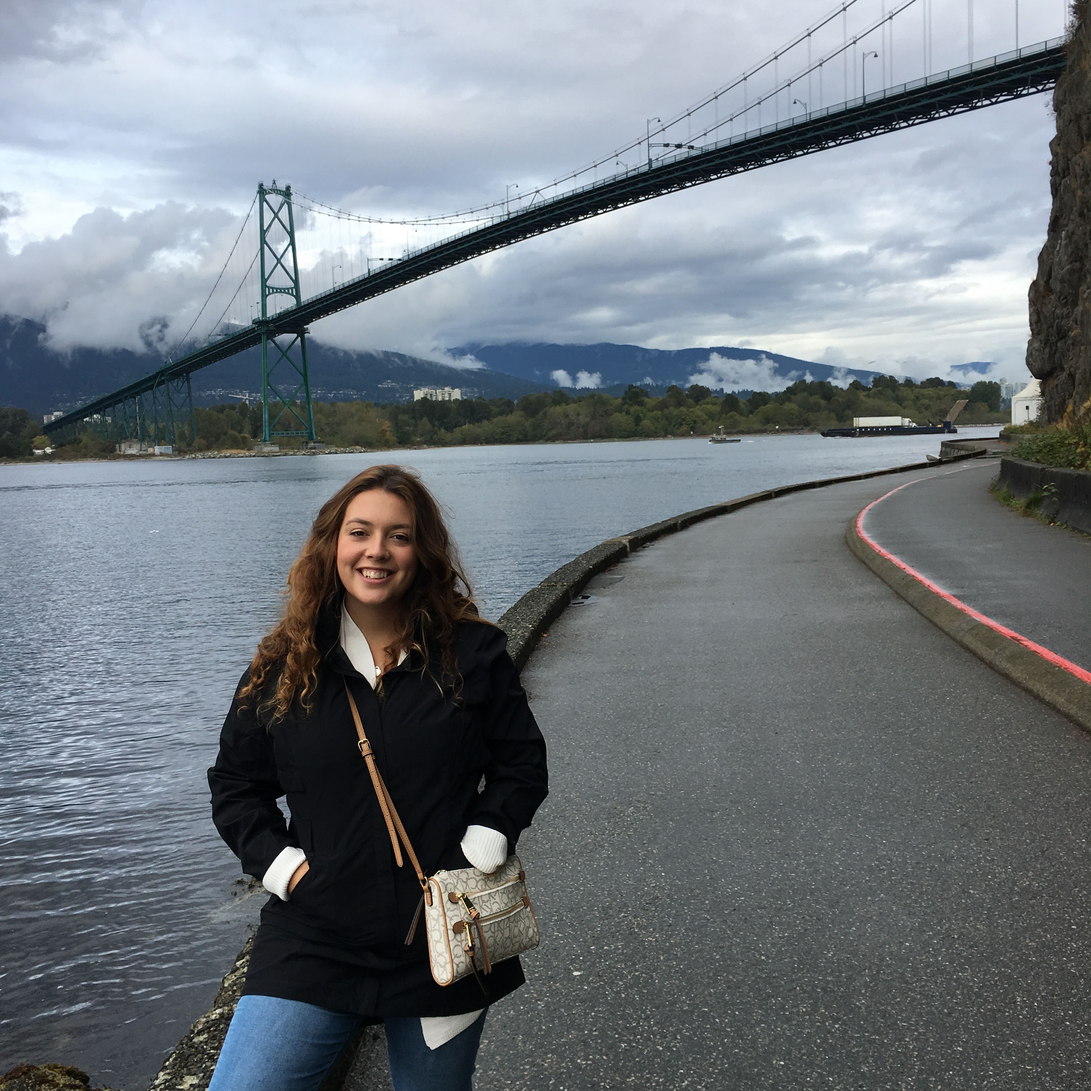
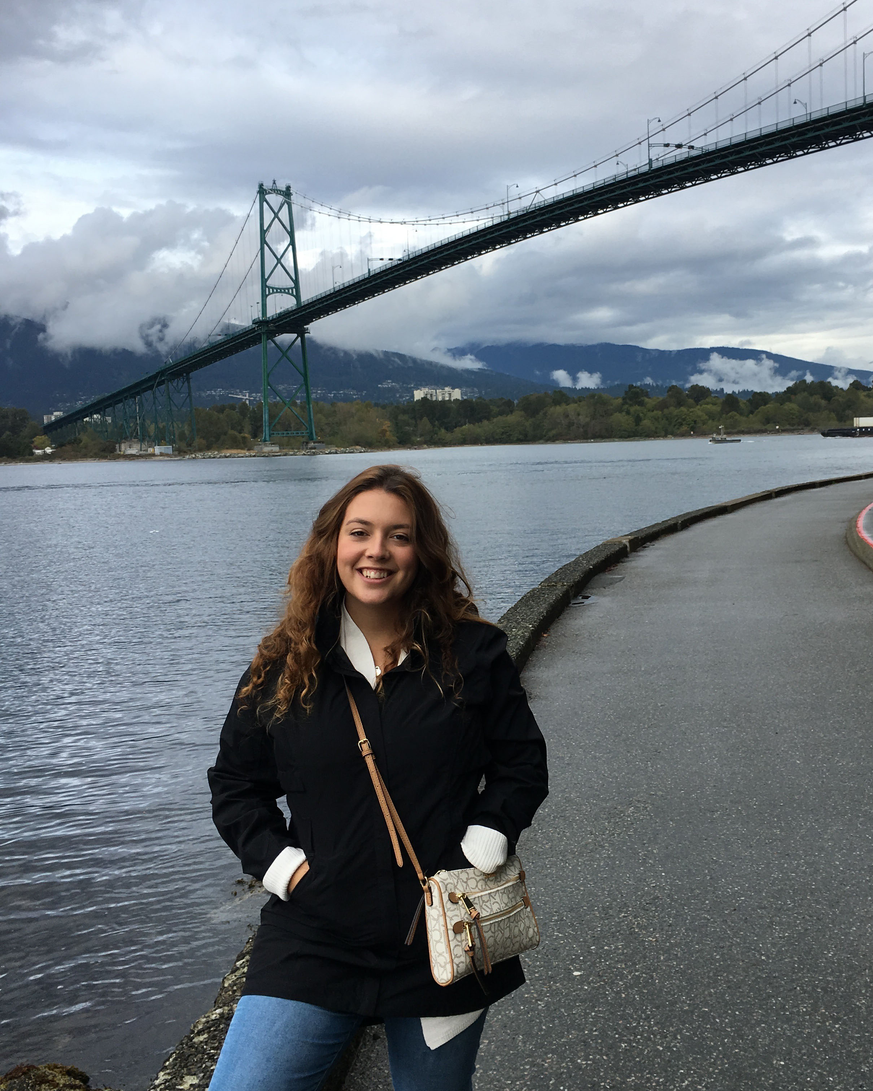
fixed images

diff --git a/_site/index.html b/_site/index.html
@@ -14,7 +14,7 @@
 </head>
 <body>
 
-  <header class="push-1-4 picture " role="navigation" id="nav">
+  <header class="push-1-4 picture" role="navigation" id="nav">
     <div class="text-center pad-t-1-2">
   <a href="/">
     <h1 class="push-0 tena">Stephanie Piccoli</h1>
@@ -87,17 +87,17 @@
     </div>
   </main>
 
-    <hr class="line1"></hr>
+    <hr class="line1 push-1-2"></hr>
 
       <section id="about" class="about">
 
-  <h2 class="push-0 pad-t-1-2 text-center">Who am I?</h2>
+  <h2 class="push-0 text-center">Who am I?</h2>
 
   <div class="grid">
   <div class="unit xs-1 s-1 m-1 l-1-2 xl-1-2">
   <div class="gutter-1-4">
-    <figure class="embed embed-1by1 texthover push-0">
-        <img class="embed-item island-1-2 img-flex me" src="/images/me.jpg" alt="">
+    <figure class="texthover push-0">
+        <img class="img-flex island-1-2 me" src="/images/me.jpg" alt="">
     </figure>
   </div>
   </div>
@@ -115,58 +115,49 @@
 </section>
 
 
+    <hr class="line1"></hr>
+
   </main>
 
-  <footer class="pad-t-2 picture-footer footer" id="footer" role="footer">
+  <footer class="veerpush-0 pad-t-2 picture-footer footer" id="footer" role="footer">
 
   <section class="push-0">
-    <h2 class="text-center subtitle"><span>Get in Touch</span></h2>
+    <h2 class="text-center subtitle-get"><span>Get in Touch</span></h2>
       <div class="grid grid-middle island-1-2">
         <div class="unit xs-1 s-1 m-1 l-1-4 xl-1-4">
           <ul class="list-group-inline text-center push-0 pad-t-1-4">
 
             <li class="island-1-8">
-              <a class="social-media btn text-center gutter">
+              <a class="btn btn-social text-center gutter">
                 <i class="icon i-64 push-1-8">
-                  <img itemprop="image" src="/images/placeholder-logo.png" alt="LinkedIn logo">
+                  <img src="/images/placeholder-logo.png" alt="LinkedIn logo">
                 </i>
-                <span class="social icon-label milli block">LinkedIn</span>
+                <span class="milli block">LinkedIn</span>
               </a>
             </li>
 
             <li class="island-1-8">
-              <a class="social-media btn text-center gutter">
+              <a class="btn btn-social icon-link text-center gutter">
                 <i class="icon i-64 push-1-8">
-                  <img itemprop="image" src="/images/placeholder-logo.png" alt="Instagram Logo">
+                  <img src="/images/placeholder-logo.png" alt="Behance Logo">
                 </i>
-                <span class="social icon-label milli block">Instagram</span>
+                <span class="milli block">Behance</span>
               </a>
             </li>
 
             <li class="island-1-8">
-              <a class="social-media btn icon-link text-center gutter">
-                <i class="icon i-64 push-1-8">
-                  <img itemprop="image" src="/images/placeholder-logo.png" alt="Behance Logo">
-                </i>
-                <span class="social icon-label milli block">Behance</span>
-              </a>
-            </li>
-
-            <li class="island-1-8">
-              <a class="social-media btn icon-link text-center gutter">
+              <a class="btn btn-social icon-link text-center gutter">
                 <i class="icon i-64 push-1-8">
                   <img itemprop="image" src="/images/placeholder-logo.png" alt="Email Link">
                 </i>
-                <span itemprop="email" class="social icon-label milli block">Email</span>
+                <span class="milli block">Email</span>
               </a>
             </li>
           </ul>
         </div>
       </div>
 
-      <ul class="footerlist-group-inline text-center">
-        <p class="push-0 micro text-center">Stephanie Piccoli Designs © <i>Portfolio</i></p>
-      </ul>
+        <p class="footer-p pad-t-2 push-0 micro text-center">Stephanie Piccoli Designs © <i>Portfolio</i></p>
   </section>
 
   </footer>

diff --git a/_layouts/default.html b/_layouts/default.html
@@ -14,7 +14,7 @@
 </head>
 <body>
 
-  <header class="push-1-4 picture {{page.headerClass}}" role="navigation" id="nav">
+  <header class="push-1-4 picture" role="navigation" id="nav">
     {% include nav.html %}
   </header>
 
@@ -22,56 +22,45 @@
     {{content}}
   </main>
 
-  <footer class="pad-t-2 picture-footer footer" id="footer" role="footer">
+  <footer class="veerpush-0 pad-t-2 picture-footer footer" id="footer" role="footer">
 
   <section class="push-0">
-    <h2 class="text-center subtitle"><span>Get in Touch</span></h2>
+    <h2 class="text-center subtitle-get"><span>Get in Touch</span></h2>
       <div class="grid grid-middle island-1-2">
         <div class="unit xs-1 s-1 m-1 l-1-4 xl-1-4">
           <ul class="list-group-inline text-center push-0 pad-t-1-4">
 
             <li class="island-1-8">
-              <a class="social-media btn text-center gutter">
+              <a class="btn btn-social text-center gutter">
                 <i class="icon i-64 push-1-8">
-                  <img itemprop="image" src="{{site.baseurl}}/images/placeholder-logo.png" alt="LinkedIn logo">
+                  <img src="{{site.baseurl}}/images/placeholder-logo.png" alt="LinkedIn logo">
                 </i>
-                <span class="social icon-label milli block">LinkedIn</span>
+                <span class="milli block">LinkedIn</span>
               </a>
             </li>
 
             <li class="island-1-8">
-              <a class="social-media btn text-center gutter">
+              <a class="btn btn-social icon-link text-center gutter">
                 <i class="icon i-64 push-1-8">
-                  <img itemprop="image" src="{{site.baseurl}}/images/placeholder-logo.png" alt="Instagram Logo">
+                  <img src="{{site.baseurl}}/images/placeholder-logo.png" alt="Behance Logo">
                 </i>
-                <span class="social icon-label milli block">Instagram</span>
+                <span class="milli block">Behance</span>
               </a>
             </li>
 
             <li class="island-1-8">
-              <a class="social-media btn icon-link text-center gutter">
-                <i class="icon i-64 push-1-8">
-                  <img itemprop="image" src="{{site.baseurl}}/images/placeholder-logo.png" alt="Behance Logo">
-                </i>
-                <span class="social icon-label milli block">Behance</span>
-              </a>
-            </li>
-
-            <li class="island-1-8">
-              <a class="social-media btn icon-link text-center gutter">
+              <a class="btn btn-social icon-link text-center gutter">
                 <i class="icon i-64 push-1-8">
                   <img itemprop="image" src="{{site.baseurl}}/images/placeholder-logo.png" alt="Email Link">
                 </i>
-                <span itemprop="email" class="social icon-label milli block">Email</span>
+                <span class="milli block">Email</span>
               </a>
             </li>
           </ul>
         </div>
       </div>
 
-      <ul class="footerlist-group-inline text-center">
-        <p class="push-0 micro text-center">Stephanie Piccoli Designs © <i>Portfolio</i></p>
-      </ul>
+        <p class="footer-p pad-t-2 push-0 micro text-center">Stephanie Piccoli Designs © <i>Portfolio</i></p>
   </section>
 
   </footer>

diff --git a/_site/css/main.css b/_site/css/main.css
@@ -14,7 +14,7 @@ h1:hover {
 }
 
 h2 {
-  font-family: 'Quicksand', bold, sans-serif;
+  font-family: 'Great Vibes', cursive;
   color: #848484;
 }
 
@@ -127,10 +127,6 @@ a {
   background-size: cover;
 }
 
-.me {
-}
-
-
 .picture-2 {
   background-image: url("../images/colour.jpeg");
 
@@ -145,7 +141,7 @@ a {
 .picture-footer {
   background-image: url("../images/colour.jpeg");
 
-  height: 300px;
+  height: 400px;
 
   background-attachment: fixed;
   background-position: center;
@@ -193,6 +189,7 @@ span {
   background-size: 90px;
 }
 
+
 .btn-banner {
   background-color: transparent;
   border-color: transparent;
@@ -208,16 +205,17 @@ span {
   transition: all .5s linear;
 }
 
-.social-media {
-  color: #000;
+.btn {
+  color: #fff;
   transition-duration: .25s;
   transition-timing-function: linear;
   border-color: transparent;
+  background-color: transparent;
 }
 
-.social-media:hover {
+.btn-social:hover {
   background-color: transparent;
-  color: #848484;
+  color: #fff;
   border-color: transparent;
 }
 
@@ -270,6 +268,10 @@ span {
   background-color: #000;
 }
 
+.subtitle-get {
+  color: #fff;
+}
+
 .container:hover .overlay {
   opacity: 0.80;
 }
@@ -305,6 +307,14 @@ span {
 #sketch03-control:checked ~ .carousel-inner [for="sketch03-control"],
 #sketch04-control:checked ~ .carousel-inner [for="sketch04-control"] {
   background-color: #fff;
+}
+
+footer {
+  vertical-align: middle;
+}
+
+.footer-p {
+  color: #fff;
 }
 
 @media only screen and (min-width: 38em) {

diff --git a/css/main.css b/css/main.css
@@ -14,7 +14,7 @@ h1:hover {
 }
 
 h2 {
-  font-family: 'Quicksand', bold, sans-serif;
+  font-family: 'Great Vibes', cursive;
   color: #848484;
 }
 
@@ -127,10 +127,6 @@ a {
   background-size: cover;
 }
 
-.me {
-}
-
-
 .picture-2 {
   background-image: url("../images/colour.jpeg");
 
@@ -145,7 +141,7 @@ a {
 .picture-footer {
   background-image: url("../images/colour.jpeg");
 
-  height: 300px;
+  height: 400px;
 
   background-attachment: fixed;
   background-position: center;
@@ -193,6 +189,7 @@ span {
   background-size: 90px;
 }
 
+
 .btn-banner {
   background-color: transparent;
   border-color: transparent;
@@ -208,16 +205,17 @@ span {
   transition: all .5s linear;
 }
 
-.social-media {
-  color: #000;
+.btn {
+  color: #fff;
   transition-duration: .25s;
   transition-timing-function: linear;
   border-color: transparent;
+  background-color: transparent;
 }
 
-.social-media:hover {
+.btn-social:hover {
   background-color: transparent;
-  color: #848484;
+  color: #fff;
   border-color: transparent;
 }
 
@@ -270,6 +268,10 @@ span {
   background-color: #000;
 }
 
+.subtitle-get {
+  color: #fff;
+}
+
 .container:hover .overlay {
   opacity: 0.80;
 }
@@ -305,6 +307,14 @@ span {
 #sketch03-control:checked ~ .carousel-inner [for="sketch03-control"],
 #sketch04-control:checked ~ .carousel-inner [for="sketch04-control"] {
   background-color: #fff;
+}
+
+footer {
+  vertical-align: middle;
+}
+
+.footer-p {
+  color: #fff;
 }
 
 @media only screen and (min-width: 38em) {

diff --git a/_includes/about.html b/_includes/about.html
@@ -1,12 +1,12 @@
 <section id="about" class="about">
 
-  <h2 class="push-0 pad-t-1-2 text-center">Who am I?</h2>
+  <h2 class="push-0 text-center">Who am I?</h2>
 
   <div class="grid">
   <div class="unit xs-1 s-1 m-1 l-1-2 xl-1-2">
   <div class="gutter-1-4">
-    <figure class="embed embed-1by1 texthover push-0">
-        <img class="embed-item island-1-2 img-flex me" src="{{site.baseurl}}/images/me.jpg" alt="">
+    <figure class="texthover push-0">
+        <img class="img-flex island-1-2 me" src="{{site.baseurl}}/images/me.jpg" alt="">
     </figure>
   </div>
   </div>

diff --git a/isometric.html b/isometric.html
@@ -1,11 +1,10 @@
 ---
 layout: default
-headerClass: picture-isometric
 ---
 
   <hr class="push-1-2 line1"></hr>
 
-  <h2 class="text-center pad-t-2">Isometric Illustration</h2>
+  <h2 class="text-center pad-t-1">Isometric Illustration</h2>
   <figure class="texthover push-0">
       <img class="img-flex" src="{{site.baseurl}}/images/isometric.jpg" alt="">
   </figure>

diff --git a/index.html b/index.html
@@ -54,6 +54,8 @@ title: "Home"
     </div>
   </main>
 
-    <hr class="line1"></hr>
+    <hr class="line1 push-1-2"></hr>
 
       {% include about.html %}
+
+    <hr class="line1"></hr>
